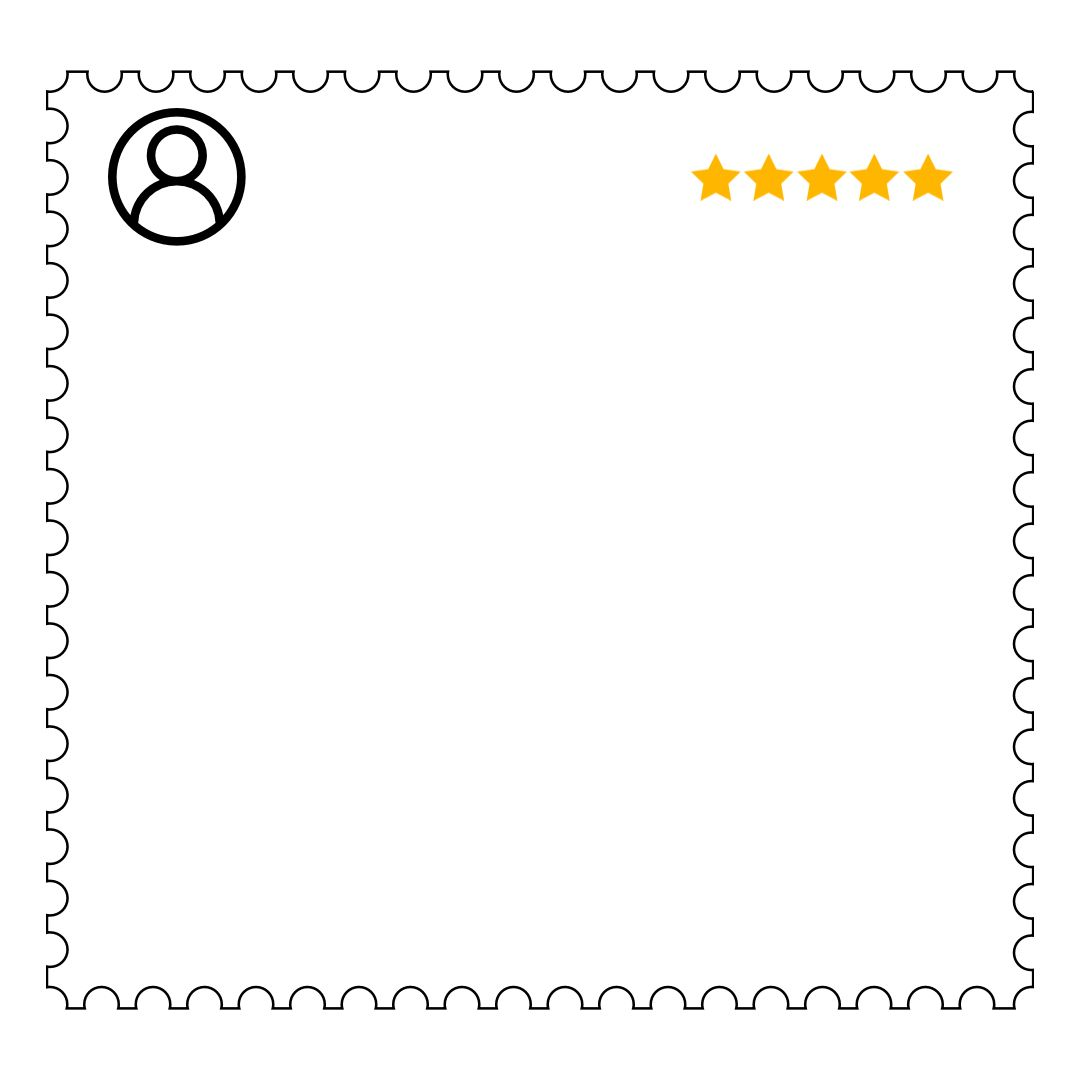
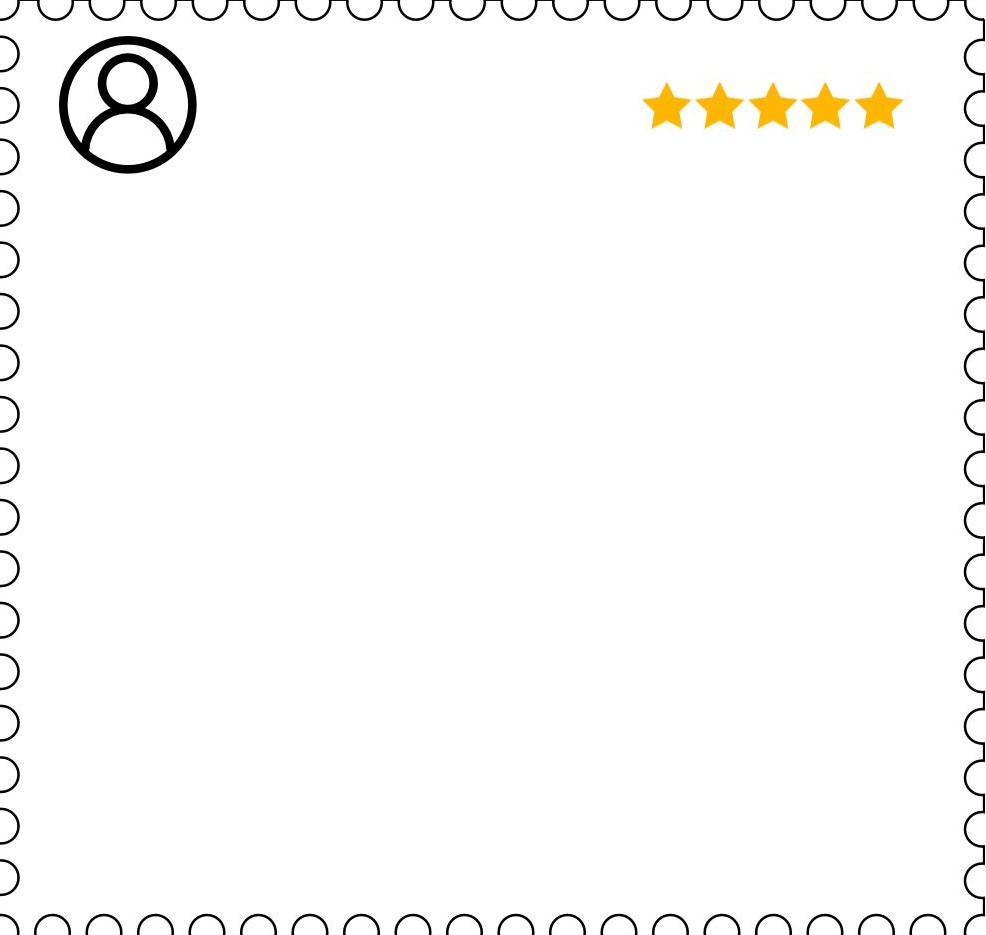
depoimentos-content

diff --git a/depoimentos-content.html b/depoimentos-content.html
@@ -1,3 +1,97 @@
 <section id="section01-depoimentos">
-    <h1 class="text-center pt-1 pb-1 fs-2">Depoimentos dos nossos clientes</h1>
+    <h1 class="pt-1 pb-1 text-center fs-1">Depoimentos dos nossos clientes</h1>
+    <div class="row d-flex justify-content-center align-items-center text-center pt-3 gap-md-5 pt-md-4">
+        <div class="col col-11 col-md-5 bg-light boxDepoimentos p-md-5 p-2 rounded-3">
+            <h3>Carlos Oliveira: <span class="gold-star">&#9733; &#9733; &#9733; &#9733; &#9733;</span></h3> <br>"Participar das trilhas de moto foi uma experiência incrível! As rotas eram desafiadoras, mas seguras, e a equipe de guias foi excepcional. Recomendo para todos os amantes de aventura e natureza. Mal posso esperar pela próxima!"
+        </div>
+        <div class="col col-11 col-md-5 bg-light boxDepoimentos p-md-5 p-2 rounded-3 mt-3 mt-md-0">
+            <h3>Mariana Santos: <span class="gold-star">&#9733; &#9733; &#9733; &#9733; &#9733;</span></h3> <br>"Foi minha primeira vez em uma trilha de moto e adorei cada minuto! As paisagens eram deslumbrantes e a organização impecável. A empresa forneceu todo o suporte necessário, desde o equipamento até o acompanhamento durante todo o percurso. Com certeza voltarei!"
+        </div>
+    </div>
+    <div class="row d-flex justify-content-center align-items-center text-center pt-3 gap-md-5 pt-md-4">
+        <div class="col bg-light col-11 col-md-5 boxDepoimentos p-md-5 p-2 rounded-3">
+            <h3>Júlio Mendes: <span class="gold-star">&#9733; &#9733; &#9733; &#9733; &#9733;</span></h3> <br>"As trilhas foram bem planejadas e ofereciam diferentes níveis de dificuldade, o que foi ótimo para nosso grupo, que tinha desde iniciantes até pilotos mais experientes. Além disso, o atendimento ao cliente foi excelente. Nota 10!"
+        </div>
+        <div class="col bg-light col-11 col-md-5 boxDepoimentos p-md-5 p-2 rounded-3 mt-3 mt-md-0">
+            <h3>Ana Paula Freitas: <span class="gold-star">&#9733; &#9733; &#9733; &#9733; &#9733;</span></h3> <br>"A trilha de moto superou todas as minhas expectativas! Os guias eram muito experientes e conheciam bem a região, o que fez toda a diferença. Senti-me segura e aproveitei cada momento. Com certeza, recomendo a todos que buscam uma aventura emocionante."
+        </div>
+    </div>
+    <div class="row d-flex justify-content-center align-items-center text-center pt-3 gap-md-5 pt-md-4">
+        <div class="col bg-light col-11 col-md-5 boxDepoimentos p-md-5 p-2 rounded-3">
+            <h3>Rodrigo Lima: <span class="gold-star">&#9733; &#9733; &#9733; &#9733; &#9733;</span></h3> <br>"A experiência foi simplesmente fantástica! O percurso foi desafiante, mas muito gratificante. As motos estavam em ótimas condições e os guias sempre prontos para ajudar. Adorei a sensação de liberdade e adrenalina. Vou fazer de novo!"
+        </div>
+        <div class="col bg-light col-11 col-md-5 boxDepoimentos p-md-5 p-2 rounded-3 mt-3 mt-md-0">
+            <h3>Fernanda Alves: <span class="gold-star">&#9733; &#9733; &#9733; &#9733; &#9733;</span></h3> <br>"Já participei de várias trilhas de moto, mas essa foi a melhor de todas. A empresa realmente se preocupa com os clientes, desde o momento da reserva até o final da trilha. A paisagem era deslumbrante e a aventura, inesquecível. Recomendo fortemente!"
+        </div>
+    </div>
+    <div class="row d-flex justify-content-center align-items-center text-center pt-3  gap-md-5 pt-md-4">
+        <div class="col bg-light col-11 col-md-5 boxDepoimentos p-md-5 p-2 rounded-3">
+            <h3>Rafael Silva: <span class="gold-star">&#9733; &#9733; &#9733; &#9733; &#9733;</span></h3> <br>"Participar das trilhas de moto foi uma experiência única e emocionante! A empresa proporcionou um roteiro diversificado, com desafios técnicos e paisagens de tirar o fôlego. Além disso, a equipe foi extremamente atenciosa e profissional. Mal posso esperar para voltar e explorar novos caminhos. Super recomendo!"
+        </div>
+        <div class="col bg-light col-11 col-md-5 boxDepoimentos p-md-5 p-2 rounded-3 mt-3 mt-md-0">
+            <h3>Patrícia Ferreira: <span class="gold-star">&#9733; &#9733; &#9733; &#9733; &#9733;</span></h3> <br>"As trilhas de moto foram simplesmente incríveis! Desde o momento em que fiz a reserva até o final da aventura, tudo foi perfeito. Os guias conheciam cada detalhe do percurso, garantindo nossa segurança e proporcionando uma experiência inesquecível. Recomendo a todos os apaixonados por aventura e natureza!"
+        </div>
+    </div>
 </section>
+</section>
+
+
+
+
+
+
+
+
+
+
+
+
+
+
+
+
+
+
+
+
+
+
+
+
+
+
+
+
+
+
+
+
+
+
+<!-- <div class="row d-flex justify-content-center pt-3 fs-2 ">
+    <div class="boxDepoimentos fs-3 col col-11 col-md-5 text-center rounded-5 me-md-5 mb-5  pt-5 pb-5 d-flex flex-column justify-content-center shadow-lg">
+        <h3>Carlos Oliveira:</h3> "Participar das trilhas de moto foi uma experiência incrível! As rotas eram desafiadoras, mas seguras, e a equipe de guias foi excepcional. Recomendo para todos os amantes de aventura e natureza. Mal posso esperar pela próxima!"
+    </div>
+    <div class="boxDepoimentos col col-11 col-md-5 text-center rounded-5 ms-md-5 mb-5 pt-5 pb-5 d-flex flex-column justify-content-center shadow-lg  box-section01-eventos">
+        <h3>Mariana Santos:</h3>"Foi minha primeira vez em uma trilha de moto e adorei cada minuto! As paisagens eram deslumbrantes e a organização impecável. A empresa forneceu todo o suporte necessário, desde o equipamento até o acompanhamento durante todo o percurso. Com certeza voltarei!"
+    </div>
+    <div class="boxDepoimentos col col-11 col-md-5 text-center rounded-5 me-md-5 mb-5 pt-5 pb-5 d-flex flex-column justify-content-center shadow-lg">
+        <h3>Júlio Mendes:</h3> "As trilhas foram bem planejadas e ofereciam diferentes níveis de dificuldade, o que foi ótimo para nosso grupo, que tinha desde iniciantes até pilotos mais experientes. Além disso, o atendimento ao cliente foi excelente. Nota 10!"
+    </div> 
+    </div>
+    <div class="boxDepoimentos col col-11 col-md-5  text-center rounded-5 ms-md-5 mb-5 pt-5 pb-5 d-flex flex-column justify-content-center shadow-lg">
+        <h3>Ana Paula Freitas:</h3>"A trilha de moto superou todas as minhas expectativas! Os guias eram muito experientes e conheciam bem a região, o que fez toda a diferença. Senti-me segura e aproveitei cada momento. Com certeza, recomendo a todos que buscam uma aventura emocionante."
+    </div>
+    <div class="boxDepoimentos col col-11 col-md-5 text-center rounded-5 me-md-5 mb-5 pt-5 pb-5 d-flex flex-column justify-content-center shadow-lg">
+        <h3>Rodrigo Lima:</h3>"A experiência foi simplesmente fantástica! O percurso foi desafiante, mas muito gratificante. As motos estavam em ótimas condições e os guias sempre prontos para ajudar. Adorei a sensação de liberdade e adrenalina. Vou fazer de novo!"
+    </div>
+    <div class="boxDepoimentos col col-11 col-md-5 text-center rounded-5 ms-md-5 mb-5 pt-5 pb-5 d-flex flex-column justify-content-center shadow-lg">
+        <h3>Fernanda Alves:</h3>"Já participei de várias trilhas de moto, mas essa foi a melhor de todas. A empresa realmente se preocupa com os clientes, desde o momento da reserva até o final da trilha. A paisagem era deslumbrante e a aventura, inesquecível. Recomendo fortemente!"
+    </div>
+    <div class="boxDepoimentos col col-11 col-md-5 text-center rounded-5 ms-md-5 mb-5 pt-5 pb-5 d-flex flex-column justify-content-center shadow-lg">
+        <h3>Rafael Silva:</h3>"Participar das trilhas de moto foi uma experiência única e emocionante! A empresa proporcionou um roteiro diversificado, com desafios técnicos e paisagens de tirar o fôlego. Além disso, a equipe foi extremamente atenciosa e profissional. Mal posso esperar para voltar e explorar novos caminhos. Super recomendo!"
+    </div>
+    <div class="boxDepoimentos col col-11 col-md-5 text-center rounded-5 ms-md-5 mb-5 pt-5 pb-5 d-flex flex-column justify-content-center shadow-lg">
+        <h3>Patrícia Ferreira:</h3>"As trilhas de moto foram simplesmente incríveis! Desde o momento em que fiz a reserva até o final da aventura, tudo foi perfeito. Os guias conheciam cada detalhe do percurso, garantindo nossa segurança e proporcionando uma experiência inesquecível. Recomendo a todos os apaixonados por aventura e natureza!"
+    </div> -->
+</div>

diff --git a/estilo.css b/estilo.css
@@ -29,11 +29,11 @@ body{
     color: white;
 }
 
-/* Media Queries */
 footer{
     background-color: #d3b390 ;
     color: #56493b;
 }
+/* Media Queries */
 
 @media  screen and (max-width: 1028px) {
     .box-diferenciais{
@@ -45,10 +45,6 @@ footer{
 }
 
 @media  screen and (max-width: 500px) {
-    /* .fs-sm{
-        width: 90%;
-    } */
-
     #section-01-home{
         background-attachment: scroll;
     }
@@ -145,4 +141,16 @@ footer{
     font-family: Atsanaee;
 }
 
+/* Depoimentos-content */
+/* Section01 */
+#section01-depoimentos{
+    background-color: #d3b390;
+}
 
+#section01-depoimentos  h1{
+    font-family: Brasika;
+    color: #56493b;
+}
+.gold-star{
+    color: gold;
+}
